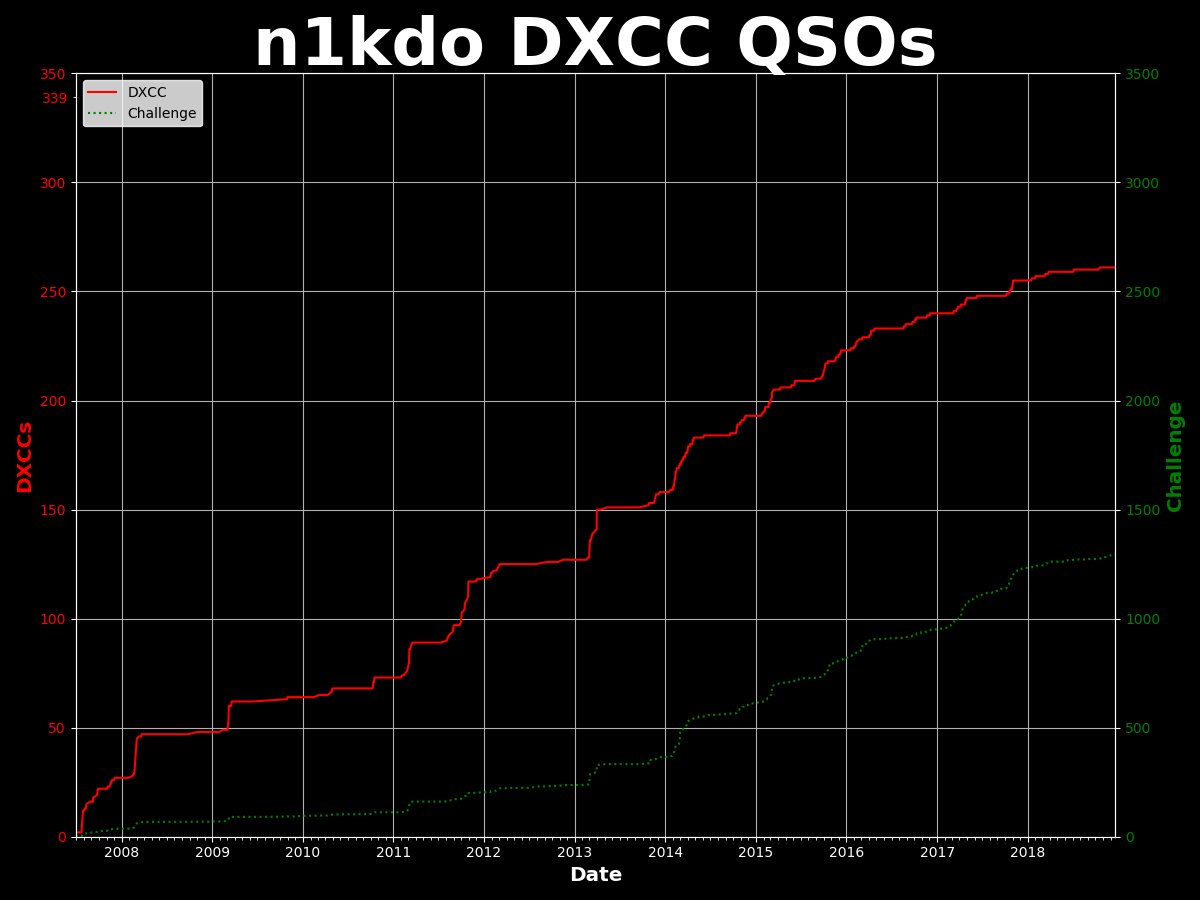
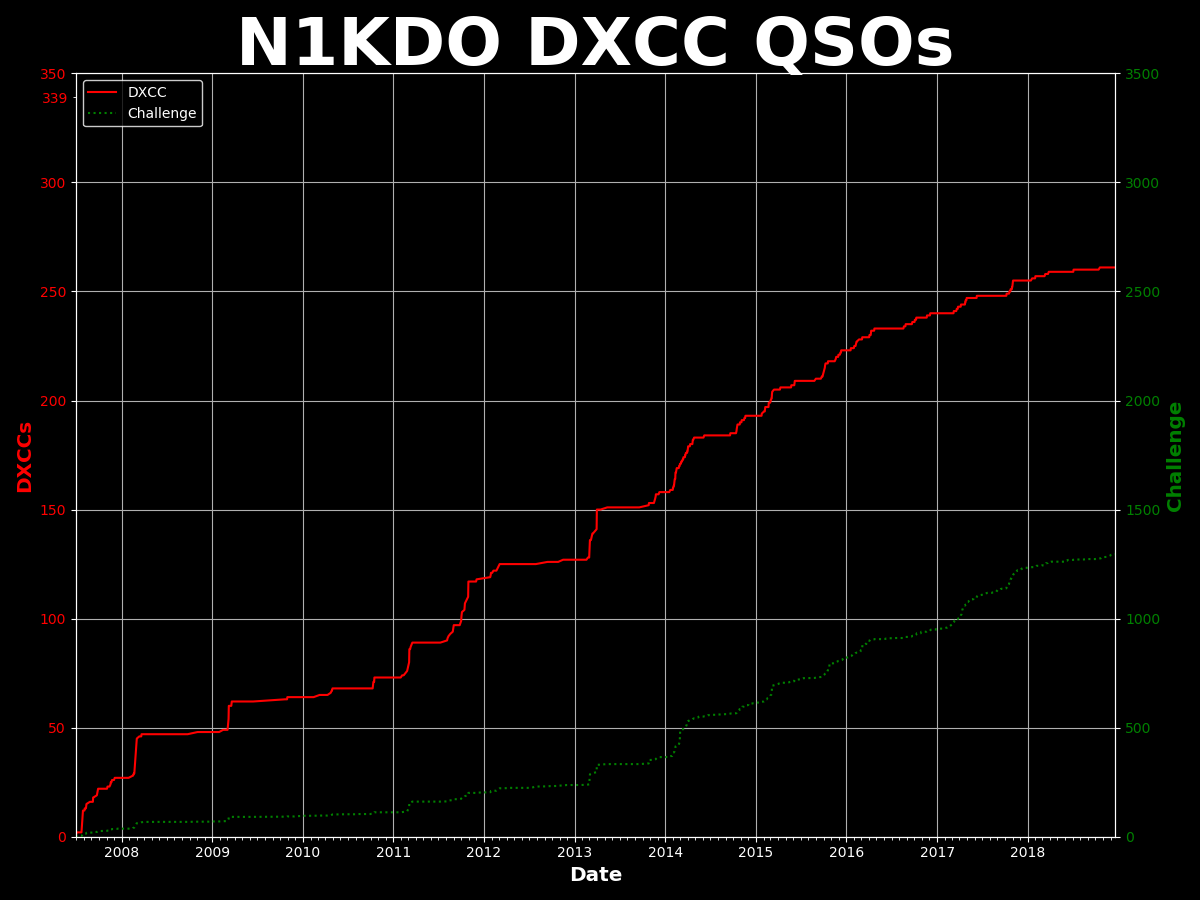
fg/bg cleanup, mostly.

Changed region(s): [[0.185, 0.0, 0.8017, 0.0933], [0.0617, 0.0622, 0.185, 0.1556]]

diff --git a/qso_charts.py b/qso_charts.py
@@ -15,12 +15,27 @@ BG = 'black'
 
 plt.ioff()
 
+def auto_scale(val):
+    factor = 1
+    t = val
+    while t > 10:
+        factor = factor * 10
+        t = int(t/10)
+    return (t+1) * factor
+
+
+def no_zero(n):
+    if n == 0:
+        return None
+    return n
+
 
 def plot_qsos_by_date(date_records, title, filename, start_date=None, end_date=None):
     """
     make the chart
     """
     data = [[], [], [], [], []]
+    biggest = 0
     for t in date_records:
         qdate = t[0]
         counts = t[1]
@@ -33,6 +48,8 @@ def plot_qsos_by_date(date_records, title, filename, start_date=None, end_date=N
         data[2].append(challenge - new_dxcc)
         data[3].append(confirmed - challenge)
         data[4].append(worked - confirmed)
+        if worked > biggest:
+            biggest = worked
 
     logging.debug('make_plot(...,...,%s)', title)
     # {'pad': 0.10}
@@ -54,12 +71,15 @@ def plot_qsos_by_date(date_records, title, filename, start_date=None, end_date=N
         end_date = dates[-1]
     ax.set_xlim(start_date, end_date)
 
+    ax.set_ylim(bottom=0, top=auto_scale(biggest))
+
     ax.stackplot(dates, data[1], data[2], data[3], data[4], labels=labels, colors=colors, linewidth=0.2)
     ax.grid(True)
 
     ax.spines['left'].set_color(FG)
     ax.spines['right'].set_color(FG)
     ax.spines['bottom'].set_color(FG)
+    ax.spines['top'].set_color(FG)
     ax.tick_params(axis='y', colors=FG, which='both', direction='out')
     ax.tick_params(axis='x', colors=FG, which='both', direction='out', top=False)
     ax.set_ylabel('QSOS', color=FG, size='x-large', weight='bold')
@@ -68,7 +88,10 @@ def plot_qsos_by_date(date_records, title, filename, start_date=None, end_date=N
     ax.xaxis.set_major_locator(YearLocator())
     ax.xaxis.set_minor_locator(MonthLocator())
     ax.xaxis.set_major_formatter(DateFormatter('%y'))
-    legend = ax.legend(loc='upper left')
+
+    legend = ax.legend(loc='upper left', facecolor=BG, edgecolor=FG)
+    for text in legend.get_texts():
+        text.set_color(FG)
 
     canvas = agg.FigureCanvasAgg(fig)
     canvas.draw()
@@ -139,8 +162,10 @@ def plot_dxcc_qsos(date_records, title, filename, start_date=None, end_date=None
     ax.xaxis.set_major_formatter(DateFormatter('%Y'))
     lns = lns1 + lns2
     labs = [l.get_label() for l in lns]
-    legend = ax.legend(lns, labs, loc='upper left', numpoints=1)
-    legend.get_frame().set_edgecolor(FG)
+
+    legend = ax.legend(lns, labs, loc='upper left', numpoints=1, facecolor=BG, edgecolor=FG)
+    for text in legend.get_texts():
+        text.set_color(FG)
 
     ax.spines['left'].set_color(FG)
     ax.spines['right'].set_color(FG)
@@ -157,12 +182,6 @@ def plot_dxcc_qsos(date_records, title, filename, start_date=None, end_date=None
     fig.savefig(filename, facecolor=BG)
     plt.close(fig)
     return
-
-
-def no_zero(n):
-    if n == 0:
-        return None
-    return n
 
 
 def plot_qsos_rate(date_records, title, filename, start_date=None, end_date=None):
@@ -223,12 +242,8 @@ def plot_qsos_rate(date_records, title, filename, start_date=None, end_date=None
     ax.tick_params(axis='x', colors=FG, which='both', direction='out', top=False)
     ax.set_ylabel('QSOs', color=FG, size='x-large', weight='bold')
     ax.set_xlabel('Date', color=FG, size='x-large', weight='bold')
-    if maxy > 100:
-        maxy = int((int(maxy / 100) + 1) * 100)
-    else:
-        maxy = int((int(maxy / 10)+ 1) * 10)
 
-    ax.set_ylim(0, maxy)
+    ax.set_ylim(0, auto_scale(maxy))
 
     ax.spines['left'].set_color(FG)
     ax.spines['right'].set_color(FG)
@@ -239,7 +254,10 @@ def plot_qsos_rate(date_records, title, filename, start_date=None, end_date=None
     ax.xaxis.set_minor_locator(MonthLocator())
     ax.xaxis.set_major_formatter(DateFormatter('%Y'))
     #ax.xaxis.set_minor_formatter(DateFormatter('%M'))
-    legend = ax.legend(bars, labels, loc='upper left', numpoints=1)
+
+    legend = ax.legend(bars, labels, loc='upper left', numpoints=1, facecolor=BG, edgecolor=FG)
+    for text in legend.get_texts():
+        text.set_color(FG)
 
     canvas = agg.FigureCanvasAgg(fig)
     canvas.draw()
@@ -304,7 +322,9 @@ def plot_qsos_band_rate(date_records, title, filename, start_date=None, end_date
     ax.xaxis.set_major_locator(YearLocator())
     ax.xaxis.set_minor_locator(MonthLocator())
     ax.xaxis.set_major_formatter(DateFormatter('%Y'))
-    legend = ax.legend(loc='upper left', numpoints=1)
+    legend = ax.legend(loc='upper left', numpoints=1, facecolor=BG, edgecolor=FG)
+    for text in legend.get_texts():
+        text.set_color(FG)
 
     canvas = agg.FigureCanvasAgg(fig)
     canvas.draw()
@@ -368,11 +388,10 @@ def plot_challenge_bands_by_date(date_records, title, filename, start_date=None,
     ax.xaxis.set_major_locator(YearLocator())
     ax.xaxis.set_minor_locator(MonthLocator())
     ax.xaxis.set_major_formatter(DateFormatter('%Y'))
-    legend = ax.legend(loc='upper left', numpoints=1)
-    # legend.get_frame().set_color((0, 0, 0, 0))
-    # legend.get_frame().set_edgecolor(FG)
+    legend = ax.legend(loc='upper left', numpoints=1, facecolor=BG, edgecolor=FG)
     for text in legend.get_texts():
-        plt.setp(text, color=FG)
+        text.set_color(FG)
+
     ax.spines['left'].set_color(FG)
     ax.spines['right'].set_color(FG)
     ax.spines['top'].set_color(FG)

diff --git a/lotw-qso-analyzer.py b/lotw-qso-analyzer.py
@@ -257,6 +257,8 @@ def draw_charts(date_records, callsign):
     #start_date = datetime.datetime.strptime('20070101', '%Y%m%d').date()
     #end_date = datetime.datetime.strptime('20181231', '%Y%m%d').date()
 
+    callsign = callsign.upper()
+
     # now draw the charts
     qso_charts.plot_qsos_by_date(date_records, callsign + ' QSOs', callsign + '_qsos.png', start_date=start_date,
                                  end_date=end_date)

diff --git a/README.md b/README.md
@@ -16,9 +16,9 @@ over time.
 
 ![Example](n1kdo_band_rate.png)
 
-![Example](n1kdo_qsos_rate.png)
+![Example](n1kdo_qsos.png)
 
 I might do more work on this, or I might not.  
 I'm putting it on GitHub because others might find it useful.  
 
-n1kdo 20180128
+n1kdo 20181226
